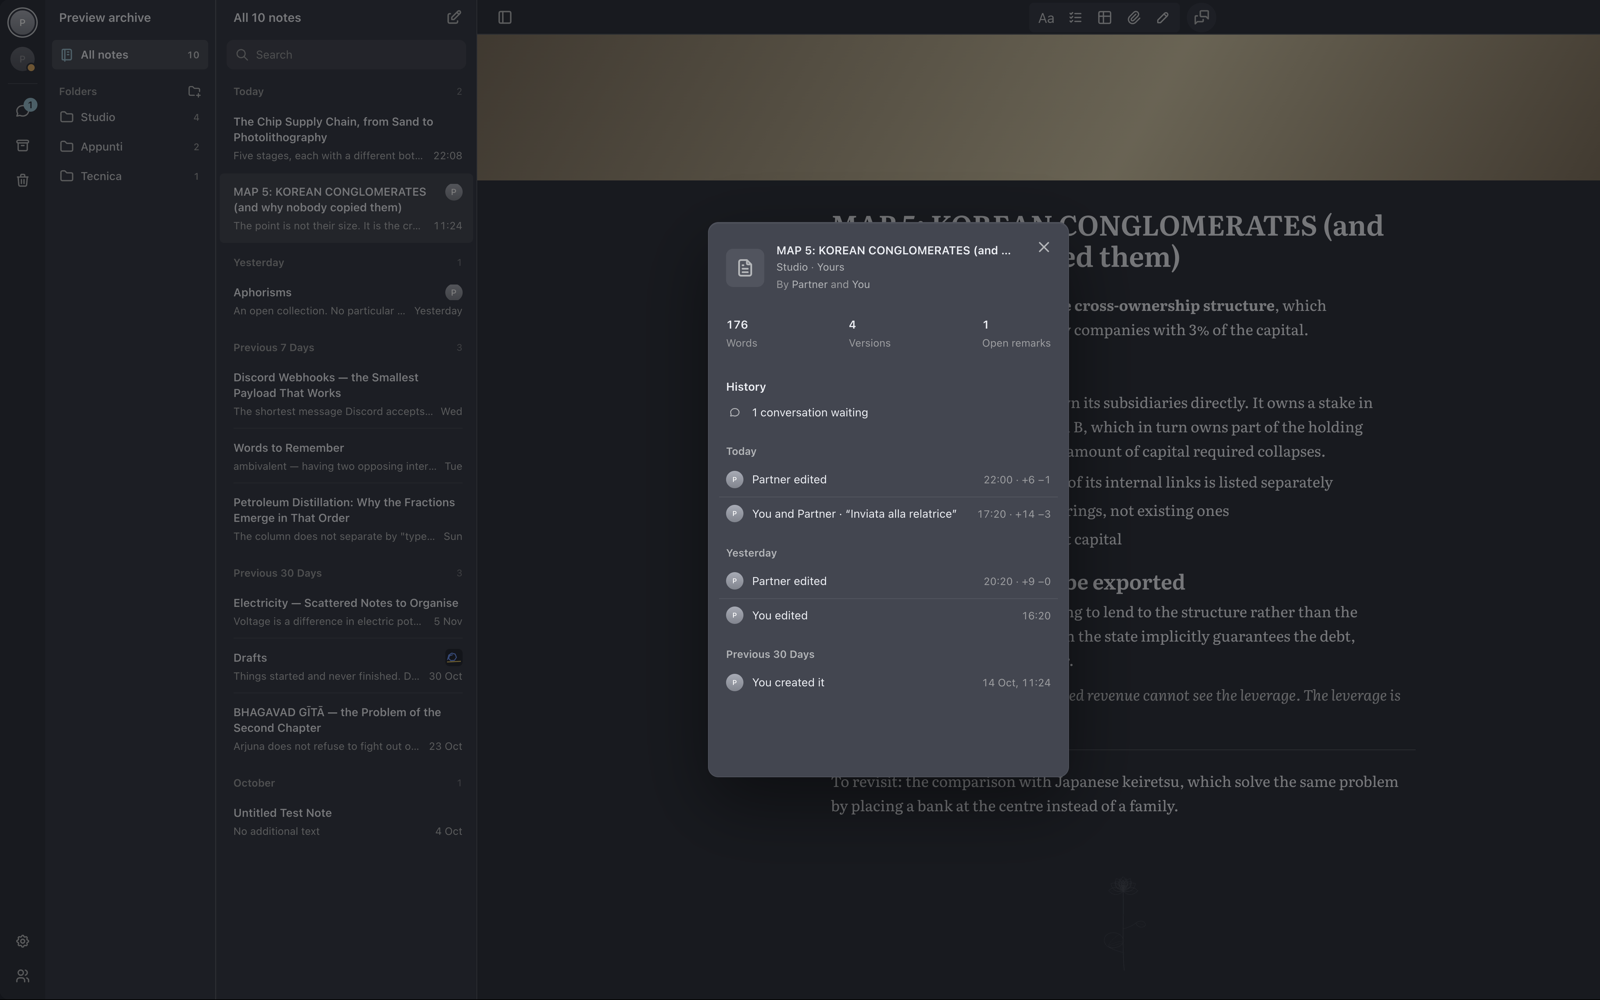
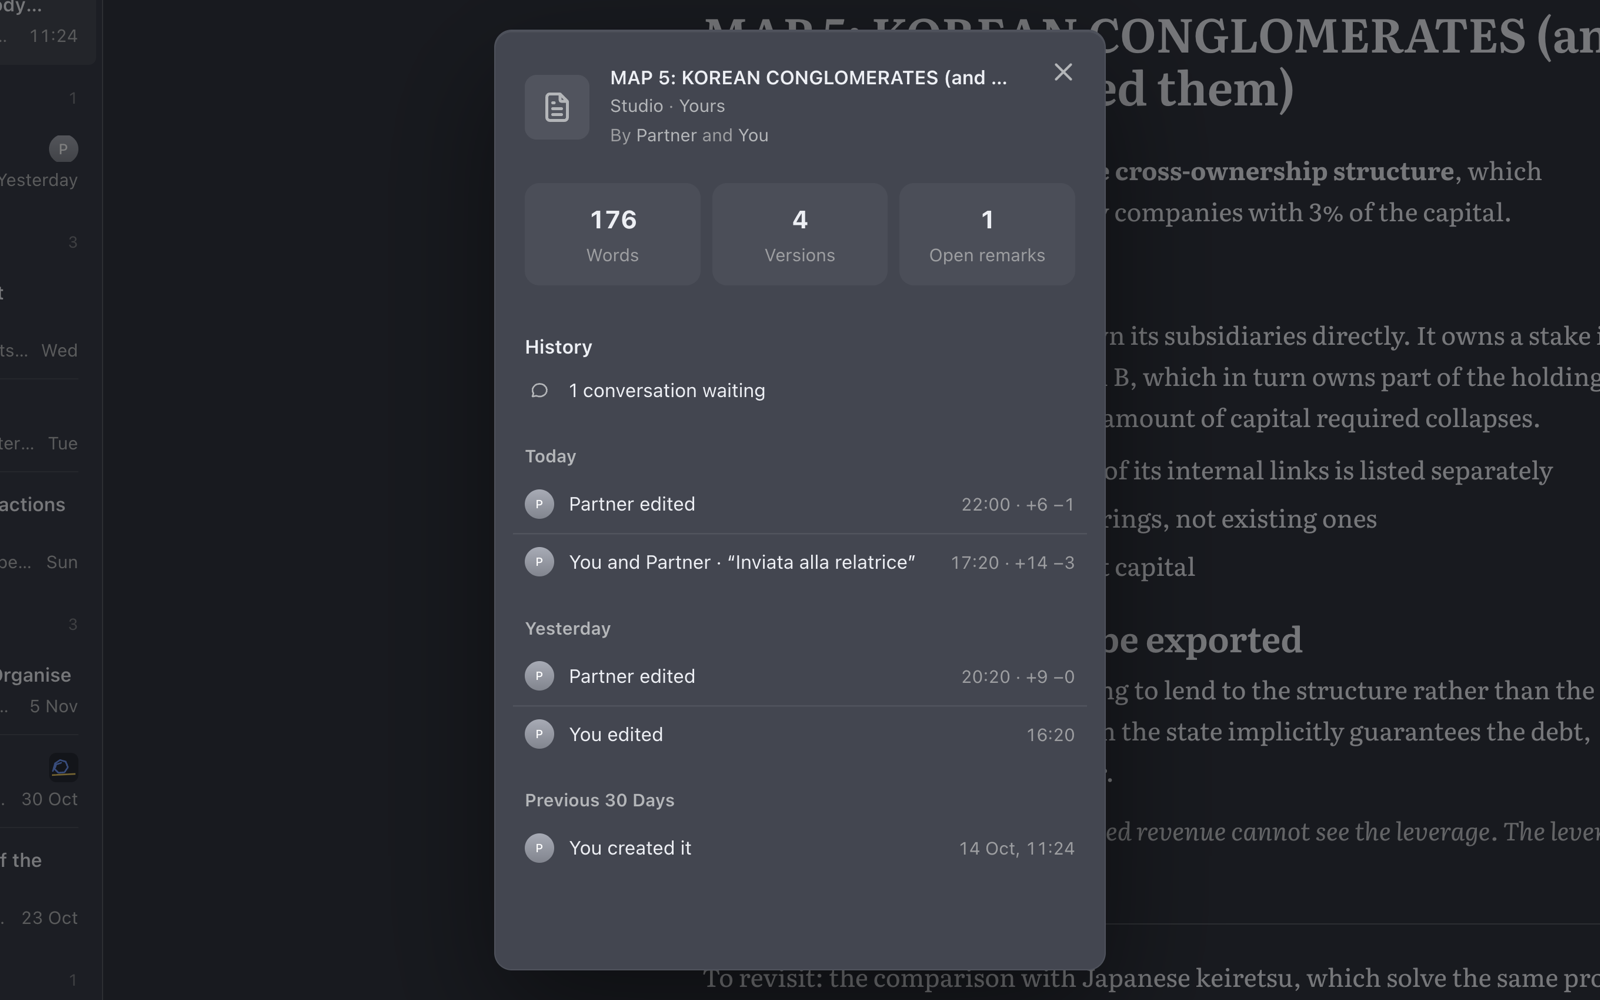
Sheets: the numbers back in three tiles
Without grounds the sheets read as too bare. Each number stands in a quiet
tile, large and centred with its name under it, three equal tiles from the
glyph's edge to the counts' edge. Release images and wording follow.

diff --git a/packages/core/src/styles.css b/packages/core/src/styles.css
@@ -14842,35 +14842,33 @@ button.sheet-chip:hover,
   color: var(--ink);
 }
 
-/* The numbers: from the face's edge to the counts' edge, the same space
-   between each. */
+/* The numbers: three equal tiles from the face's edge to the counts' edge,
+   each a quiet ground with its number large and its name under it. Without
+   them the sheet read as too bare. */
 .sheet-body.is-plain .sheet-stats {
-  display: flex;
-  justify-content: space-between;
-  gap: 0;
-  margin: 28px var(--sheet-inset) 0;
+  display: grid;
+  grid-template-columns: repeat(3, minmax(0, 1fr));
+  gap: 8px;
+  margin: 24px var(--sheet-inset) 0;
 }
 
 .sheet-body.is-plain .sheet-stats > * {
+  align-items: center;
   gap: 2px;
-  border-radius: 0;
-  background: none;
-  padding: 0;
-  text-align: left;
+  border-radius: 10px;
+  background: color-mix(in srgb, var(--ink) 5%, transparent);
+  padding: 12px 8px;
+  text-align: center;
 }
 
 .sheet-body.is-plain .sheet-stats > button:hover {
-  background: none;
-}
-
-.sheet-body.is-plain .sheet-stats > button:hover small {
-  color: var(--ink);
+  background: color-mix(in srgb, var(--ink) 9%, transparent);
 }
 
 .sheet-body.is-plain .sheet-stats :is(dd, strong) {
   font-family: var(--font-sans);
-  font-size: var(--text-sm);
-  font-weight: var(--weight-semibold);
+  font-size: var(--text-lg);
+  font-weight: var(--weight-bold);
 }
 
 .sheet-body.is-plain .sheet-stats :is(dt, small) {
@@ -15075,7 +15073,7 @@ button.sheet-chip:hover,
 }
 
 .sheet-body.is-plain .sheet-stepper > span {
-  justify-content: flex-start;
+  justify-content: center;
   gap: 8px;
 }
 

diff --git a/packages/core/src/lib/whatsNew.ts b/packages/core/src/lib/whatsNew.ts
@@ -72,7 +72,7 @@ export const RELEASES: Release[] = [
         items: [
           {
             title: "Plain information sheets",
-            text: "Holding a note, a folder or a person opens a calmer sheet: three numbers spaced evenly, then what happened grouped by day, each row with a face, the time and the words changed. The archive's sheet and a book's Trash are drawn the same way.",
+            text: "Holding a note, a folder or a person opens a calmer sheet: three numbers in tiles, then what happened grouped by day, each row with a face, the time and the words changed. The archive's sheet and a book's Trash are drawn the same way.",
             image: "0.9.53-sheets.jpg",
           },
         ],

diff --git a/CHANGELOG.md b/CHANGELOG.md
@@ -14,7 +14,7 @@ changes. The commit history remains the detailed engineering record.
 - In a framed Mac window the traffic lights sit centred in the top band and the
   sidebar no longer steps down, so the three columns stay level.
 - Person, note, folder and archive sheets and a book's Trash use one flat layout:
-  evenly spaced numbers and History grouped by day.
+  three number tiles and History grouped by day.
 - Comments are a full-height column of the window with flat thread rows; the
   floating margin mode is removed.
 - What's New is a page of Settings instead of a modal; after an update Settings
